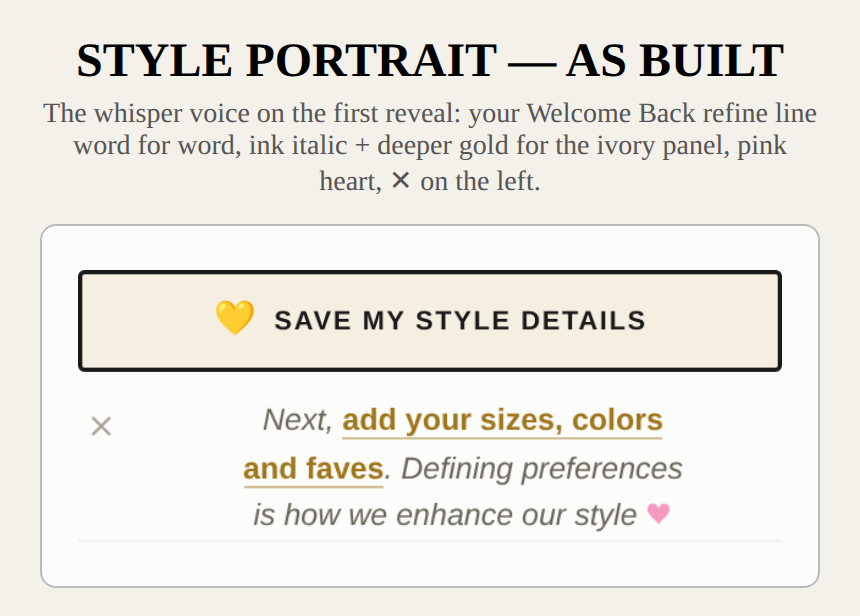
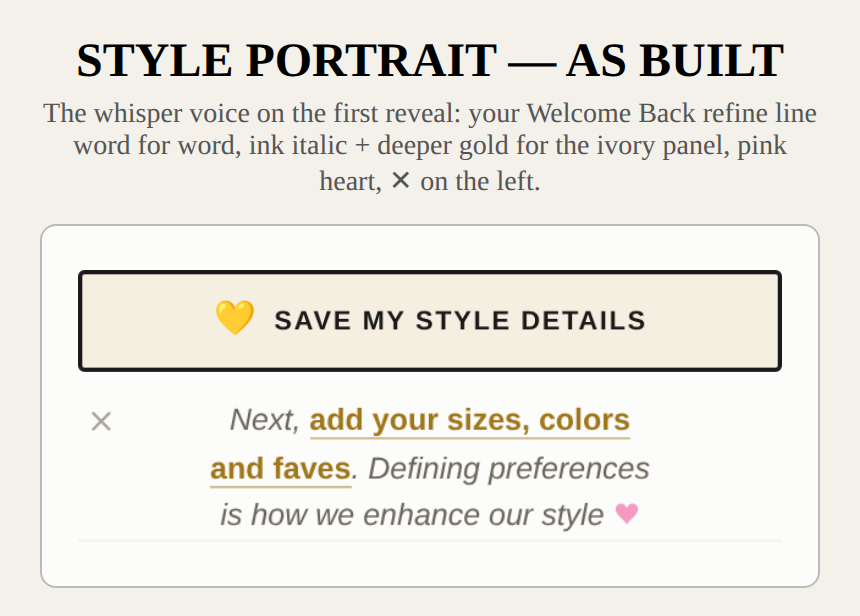
Whisper centering: dismiss out of flow, text balances as a block
Cath's catch on the as-built render: the in-flow dismiss control pushed the
whisper's centering box sideways, so the lines sat off-center in the strip.
The dismiss is absolutely positioned now (left, per the wishlist convention)
with symmetric side padding, and the text spans are display:block —
text-wrap:balance only applies to block-level text, so the un-flexed
containers had quietly lost the balanced wrap. Proofed centeredPx=0 on both
screens; menu 82, hubs 46, e2e 29 green.

Claude-Session: https://claude.ai/code/session_013ZkjFeKp9L7LamDvAuMxEN

Changed region(s): [[0.2419, 0.6477, 0.8163, 0.8636], [0.0907, 0.6786, 0.1512, 0.7094]]

diff --git a/index.html b/index.html
@@ -1148,12 +1148,13 @@ body.card-fb{padding:0}
 #s-wb .wb-arr{width:20px;height:20px;flex:0 0 auto}
 /* Catherine's whisper (the next-step concierge). Cream on the dark boutique
    background; the gold bold is the tap target's visual cue, the whole line taps. */
-#wbNext{display:none;align-items:flex-start;justify-content:center;gap:8px;margin:10px 22px 2px;text-align:center}
-#wbNext.on{display:flex}
-#wbNext .wbn-t{font:italic 400 12.5px/1.55 'Jost',sans-serif;color:#E8E2D2;cursor:pointer;text-wrap:balance}
+/* ✕ out of flow so the whisper centers true — same fix as .refine-next. */
+#wbNext{display:none;position:relative;margin:10px 22px 2px;padding:0 26px;text-align:center}
+#wbNext.on{display:block}
+#wbNext .wbn-t{display:block;font:italic 400 12.5px/1.55 'Jost',sans-serif;color:#E8E2D2;cursor:pointer;text-wrap:balance}
 #wbNext .wbn-t b{font-weight:600;color:#F2D889;border-bottom:1px solid rgba(242,216,137,.55);font-style:normal}
 #wbNext .wbn-h{width:11px;height:11px;vertical-align:-1px}
-#wbNext .wbn-x{flex:0 0 auto;padding:3px;margin-top:2px;cursor:pointer}
+#wbNext .wbn-x{position:absolute;left:0;top:2px;padding:3px;cursor:pointer}
 #wbNext .wbn-x svg{width:13px;height:13px;display:block;stroke:#a09a8e}
 #s-wb .wb-shadow{position:relative;height:0}
 #s-wb .wb-shadow i{position:absolute;left:6px;bottom:1px;width:33px;height:6px;border-radius:50%;background:radial-gradient(ellipse at center,rgba(20,15,5,.34),rgba(20,15,5,0) 72%);filter:blur(1.5px)}
@@ -1562,12 +1563,15 @@ body.ss-play .hm-entrance{animation:ssOverlayOut .55s ease 1.6s forwards}
 .res-screen .p3-lead .rule{display:none}
 .res-screen .savebtn{display:flex;align-items:center;justify-content:center;gap:8px;width:100%;padding:14px;border-radius:3px;cursor:pointer;border:2px solid #1a1a1a;background:#F5EFE2;color:#1a1a1a;font:700 12.5px/1 'Jost',sans-serif;letter-spacing:.08em;text-transform:uppercase}
 /* first-reveal "what's next" nudge — cream + gold to match the hub chips */
-.refine-next{display:none;align-items:flex-start;justify-content:center;gap:8px;margin:14px 22px 2px;text-align:center}
-.refine-next.on{display:flex}
-.rn-body{font:italic 400 12.5px/1.55 'Jost',sans-serif;color:#6b655a;cursor:pointer;text-wrap:balance}
+/* The ✕ is absolutely positioned so the text centers in the TRUE middle of the
+   strip (symmetric side padding) — an in-flow ✕ shoved the centering box
+   sideways and the lines sat awkwardly off-center (Cath's catch 2026-08-05). */
+.refine-next{display:none;position:relative;margin:14px 22px 2px;padding:0 26px;text-align:center}
+.refine-next.on{display:block}
+.rn-body{display:block;font:italic 400 12.5px/1.55 'Jost',sans-serif;color:#6b655a;cursor:pointer;text-wrap:balance}
 .rn-body b{font-weight:600;color:#A0761B;border-bottom:1px solid rgba(160,118,27,.45);font-style:normal}
 .rn-body .rn-h{width:11px;height:11px;vertical-align:-1px}
-.rn-x{flex:0 0 auto;background:none;border:none;padding:3px;margin-top:2px;cursor:pointer;-webkit-tap-highlight-color:transparent}
+.rn-x{position:absolute;left:0;top:0;background:none;border:none;padding:3px;cursor:pointer;-webkit-tap-highlight-color:transparent}
 .rn-x svg{width:13px;height:13px;display:block;stroke:#a8a294}
 .res-screen .savebtn .hrt{font-size:16px;line-height:1;display:inline-block;transform-origin:center}
 .res-screen .pair{display:flex;gap:9px;margin-top:9px}

diff --git a/scratchpad/rnfinal.js b/scratchpad/rnfinal.js
@@ -34,7 +34,8 @@ const resProof = await page.evaluate(() => {
   const el = document.getElementById('refineNext'), b = el.getBoundingClientRect();
   const x = el.querySelector('.rn-x').getBoundingClientRect();
   const t = el.querySelector('.rn-body').getBoundingClientRect();
-  return { on: el.classList.contains('on'), visible: b.width > 0 && b.height > 0, xLeftOfText: x.left < t.left };
+  return { on: el.classList.contains('on'), visible: b.width > 0 && b.height > 0, xLeftOfText: x.left < t.left,
+    centeredPx: Math.round(Math.abs((t.left + t.right) / 2 - (b.left + b.right) / 2)) };
 });
 const saveShot = await page.locator('#resSaveBtn').screenshot();
 const stripShot = await page.locator('#refineNext').screenshot();
@@ -49,7 +50,8 @@ const wbProof = await page.evaluate(() => {
   const el = document.getElementById('wbNext'), b = el.getBoundingClientRect();
   const x = el.querySelector('.wbn-x').getBoundingClientRect();
   const t = document.getElementById('wbNextTxt').getBoundingClientRect();
-  return { on: el.classList.contains('on'), visible: b.width > 0 && b.height > 0, xLeftOfText: x.left < t.left };
+  return { on: el.classList.contains('on'), visible: b.width > 0 && b.height > 0, xLeftOfText: x.left < t.left,
+    centeredPx: Math.round(Math.abs((t.left + t.right) / 2 - (b.left + b.right) / 2)) };
 });
 const wbRect = await page.evaluate(() => {
   const top = document.querySelector('.wb-greet').getBoundingClientRect().top + scrollY;
@@ -59,7 +61,8 @@ const wbRect = await page.evaluate(() => {
 const wbShot = await page.screenshot({ clip: { x: 0, y: Math.max(0, wbRect.top - 10), width: 390, height: wbRect.bot - wbRect.top + 24 } });
 
 console.log('proof:', JSON.stringify({ portrait: resProof, welcomeBack: wbProof }));
-if (!resProof.on || !resProof.visible || !resProof.xLeftOfText || !wbProof.on || !wbProof.visible || !wbProof.xLeftOfText) {
+if (!resProof.on || !resProof.visible || !resProof.xLeftOfText || resProof.centeredPx > 2 ||
+    !wbProof.on || !wbProof.visible || !wbProof.xLeftOfText || wbProof.centeredPx > 2) {
   console.log('PROOF FAILED — aborting'); process.exit(1);
 }
 
